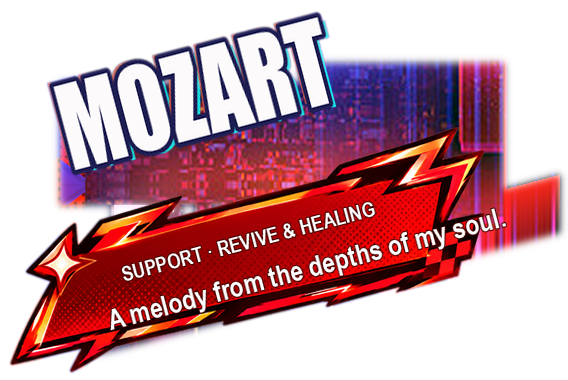
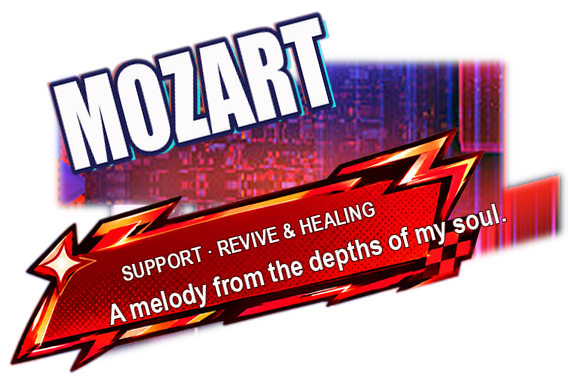
style(多语言): 台词行再上移 5px（QUOTE_LIFT 2→7）

Changed region(s): [[0.1796, 0.5211, 0.8979, 0.8684]]

diff --git a/scripts/image/loading_plate_overlay.py b/scripts/image/loading_plate_overlay.py
@@ -126,7 +126,7 @@ NAME_BLEED = 17       # 大字擦除外扩：白描边 ≈8px + 青/品红错位
 NAME_HEADROOM = 92    # 名字区上沿到 name_box 顶边的余量：斜排大字越宽抬得越高，这条是硬上限
 NAME_LIFT = 14        # 英文大字整体上移，躲开斜条右端（斜条右端比左端高 100+px）
 PLATE_PAD = 6         # 贴片边界相对「几何区 ∪ 墨迹」再外扩的像素，别让字贴着裁切线
-QUOTE_LIFT = 2        # 台词行整体上移的像素（包裹模式下离条芯下缘的微调）
+QUOTE_LIFT = 7        # 台词行整体上移的像素（包裹模式下离条芯下缘的微调）
 
 # 实测版面（cn2-X1_loading_04_zh，684×2048）。红条是平行四边形：
 #   上边线 y = top_y_at_x_left + slope*(x - x_left)，高恒为 bar_h。
